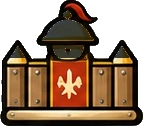
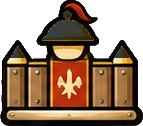
Show mounted bowmen and clean up both fortified pawn faces

Changed region(s): [[0.3636, 0.3571, 0.5874, 0.4762]]

diff --git a/public/games/mongols-chess/index.html b/public/games/mongols-chess/index.html
@@ -88,6 +88,6 @@
     <div id="move-options"></div>
     <form method="dialog"><button>Cancel</button></form>
   </dialog>
-  <script type="module" src="./app.mjs?v=47"></script>
+  <script type="module" src="./app.mjs?v=48"></script>
 </body>
 </html>
